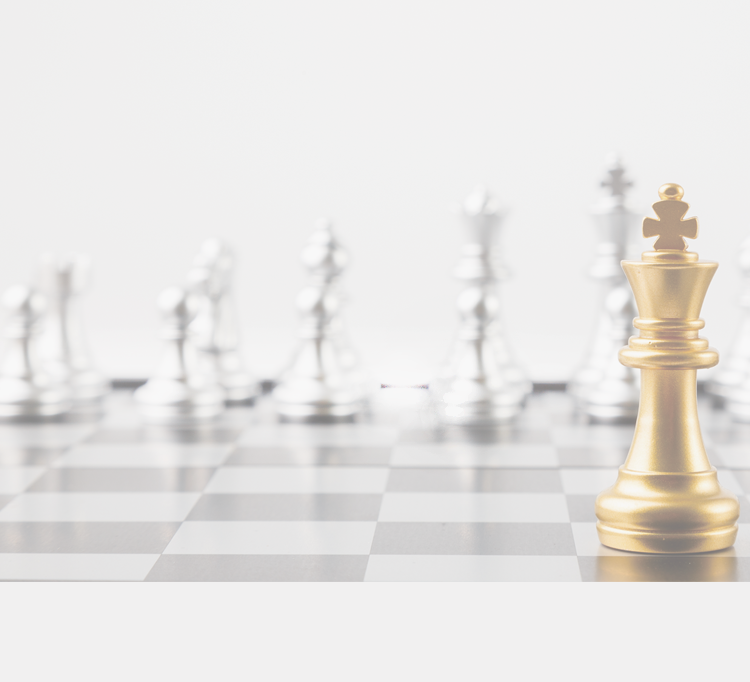
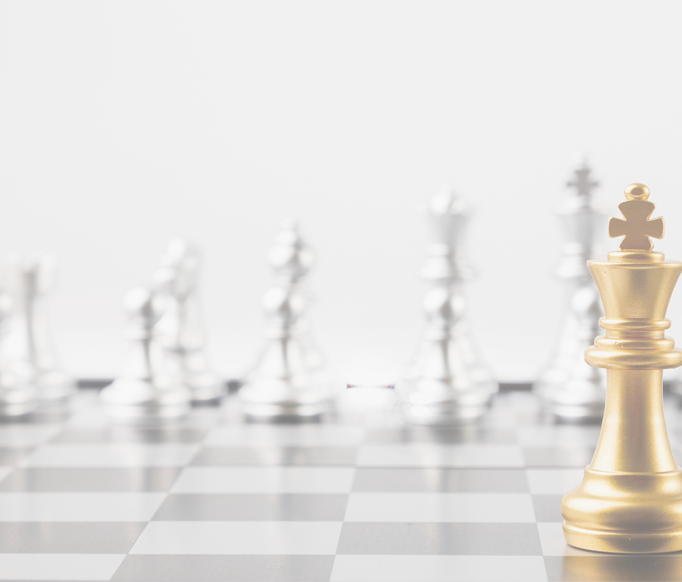
22

Changed region(s): [[0.0, 0.2474, 1.0, 1.0]]

diff --git a/css/common.css b/css/common.css
@@ -482,6 +482,7 @@ home h1,home h3{
   margin-top: 0.36rem;
   font-size: 0.24rem;
   color: #d49e49;
+  font-weight: bold;
 }
 .scr2-list-box .p2{
   margin-top: 0.14rem;
@@ -695,11 +696,11 @@ home h1,home h3{
 	background: url(../images/m-contact.png) no-repeat center/cover;
 }
 .contact h1 {
-	text-align: center;
-  font-size: 0.66rem;
-  letter-spacing: 0.13rem;
-	color: #ECC77E;
-	padding-top: 1.2rem;
+text-align: center;
+    font-size: 0.66rem;
+    letter-spacing: 0.13rem;
+    color: #ECC77E;
+    padding-top: .4rem;
 }
 .contact ol {
 	padding: 0 .3rem;
@@ -784,8 +785,7 @@ home h1,home h3{
   height: 5.8rem;
 }
 .preface{
-  background: url("../images/more-bg.png") no-repeat;
-  background-size: 100% 100%;
+  background: url("../images/more-bg.png") no-repeat center/cover;
   /*font-size: 0.24rem;*/
 }
 .preface p{
